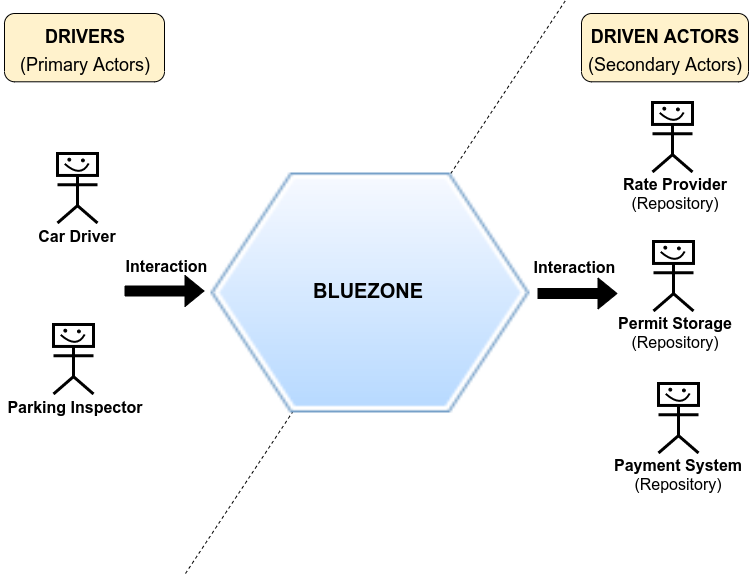
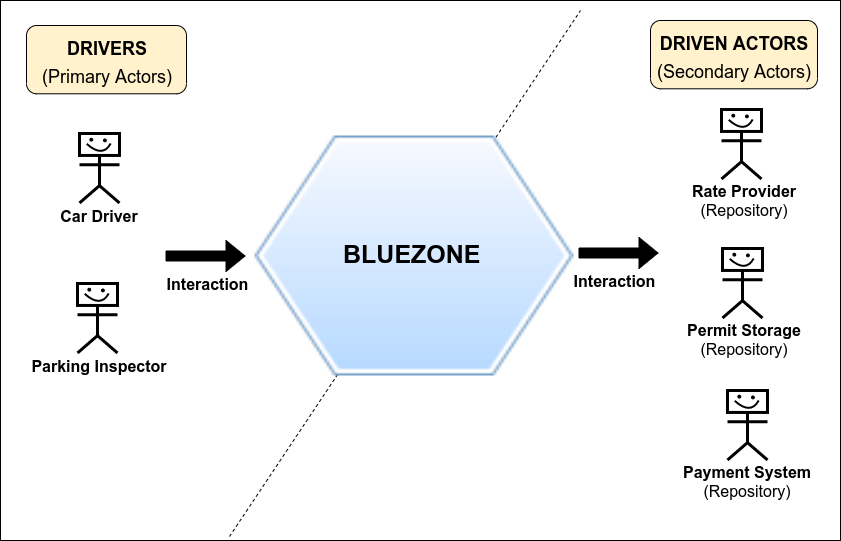
add figures

diff --git a/content/hexagonalarchitecture-ig/chapter1.md b/content/hexagonalarchitecture-ig/chapter1.md
@@ -92,11 +92,11 @@ We will not define driven ports in detail yet, since we will find out their oper
 Now let's see these design steps...
 
 <div id="tc3-1"></div>
-### 3.1.- IDENTIFY ACTORS
+#### 3.1.- IDENTIFY ACTORS
 
 1. Draw an hexagon. It represents the application, the business logic.
 
-2. Put driver actors outside the hexagon, on the left side. Drivers are those who needs the application for achieving their goals. They trigger the communication with the application. [As Alistair Cockburn says in his talk Alistair in the Hexagone, think of the application as a thing resting in a quiet state, doing nothing. When the driver needs the application to perform an action, the driver would kick it and wake it up saying "Hey you, do this"](https://youtu.be/th4AgBcrEHA?list=PLGl1Jc8ErU1w27y8-7Gdcloy1tHO7NriL&t=1409).
+2. Put driver actors outside the hexagon, on the left side. Drivers are those who needs the application for achieving their goals. They trigger the communication with the application. As Alistair Cockburn says in his talk [Alistair in the Hexagone, think of the application as a thing resting in a quiet state](https://youtu.be/th4AgBcrEHA?list=PLGl1Jc8ErU1w27y8-7Gdcloy1tHO7NriL&t=1409), doing nothing. When the driver needs the application to perform an action, the driver would kick it and wake it up saying "Hey you, do this".
 
 3. Put driven actors outside the hexagon, on the right side. Driven actors are those who are needed by the application for achieving application goals. The application triggers the communication with the driven actors.
 
@@ -111,16 +111,14 @@ In the example application, BlueZone, the real world things we can identify are:
 
 At this early stage of development we don't care if actors are humans, files, databases, remote systems, etc. We just abstract the actor as a thing outside the application, it doesn't matter the technology it uses.
 
-So we have the actors shown in Figure 1. Here I borrow a [picture for representing actors, drawn by Alistair Cockburn in his talk Alistair in the Hexagone, meaning that an actor can be a human being, a computer, or whatever... it doesn't matter](https://youtu.be/th4AgBcrEHA?list=PLGl1Jc8ErU1w27y8-7Gdcloy1tHO7NriL&t=1365).
+So we have the actors shown in Figure 1. Here I borrow a [picture for representing actors, drawn by Alistair Cockburn in his talk Alistair in the Hexagone](https://youtu.be/th4AgBcrEHA?list=PLGl1Jc8ErU1w27y8-7Gdcloy1tHO7NriL&t=1365), meaning that an actor can be a human being, a computer, or whatever... it doesn't matter.
 
-![Figure 1: Actors](/assets/images/hexagonalarchitecture-ig/figure1-1.png)
-
-![Figure 1: Actors](/assets/images/hexagonalarchitecture-ig/figure1-1-transp.png)
+![Figure 1: Hexagon and Actors](/assets/images/hexagonalarchitecture-ig/figure1-1.png)
 
 Figure 1: Hexagon and Actors
 
 <div id="tc3-2"></div>
-### 3.2.- IDENTIFY PORTS
+#### 3.2.- IDENTIFY PORTS
 
 Actors interacts with the hexagon through ports. A port groups the allowed interactions of the hexagon with a set of possible actors according to the purpose of the communication, using an declared program interface (API) which will be independent from the technologies any of the actors might use. ___An application port has a purpose, it is "for doing something", and we should name ports that way, even in source code___.
 
@@ -128,28 +126,30 @@ Actors interacts with the hexagon through ports. A port groups the allowed inter
 
 In the example application:
 
-  - Car drivers want the application for parking their cars. So there will be a driver port named ___"for parking cars"___.
+    - Car drivers want the application for parking their cars. So there will be a driver port named ___"for parking cars"___.
 
-  - Parking inspectors want the application for checking cars. So there will be a driver port named ___"for checking cars"___.
+    - Parking inspectors want the application for checking cars. So there will be a driver port named ___"for checking cars"___.
 
 * __Driven ports__: For each driven actor, ask to yourself: What purpose does the application want the driven actor for? The answer will be the name of the port. Do this considering the driven actors as abstract repositories/recipients, regardless of their techonology.
 
 In the example application:
 
-  - The application wants the "Rate Provider" for obtaining rates, in order to calculate prices of parking permits. So there will be a driven port named ___"for obtaining rates"___. The application will just say to the driven port: "Hey you! Gimme the rate of name ...", but it doesn't care if it comes from a file, or from another application, or from whatever device else.
+    - The application wants the "Rate Provider" for obtaining rates, in order to calculate prices of parking permits. So there will be a driven port named ___"for obtaining rates"___. The application will just say to the driven port: "Hey you! Gimme the rate of name ...", but it doesn't care if it comes from a file, or from another application, or from whatever device else.
 
-  - The application wants the "Permit Storage" for storing the parking permits that car drivers request, and for querying them when parking inspectors want to check a car. So there will be a driven port named ___"for storing permits"___.
+    - The application wants the "Permit Storage" for storing the parking permits that car drivers request, and for querying them when parking inspectors want to check a car. So there will be a driven port named ___"for storing permits"___.
 
-  - The application wants the "Payment System" for letting car drivers paying. So there will be a driven port named "___for paying___".
+    - The application wants the "Payment System" for letting car drivers paying. So there will be a driven port named "___for paying___".
 
 Maybe at this early stage of development, you still don’t know all driven actors needed by the application. But don’t worry about it, they will appear when you implement the business logic. You will realize that the application has to deal with some technologic device, or it has to use a functionality which is not under its responsability. In such a case you will have to abstract the purpose of the communication, and create a driven port for it, which should be named according to the "for doing something" pattern.
 
 Figure 2 shows the identified ports added to the drawing. I write the name of the ports inside the hexagon to remark that they are part of it, they belong to the hexagon.
 
+![Figure 2: Hexagon with Ports](/assets/images/hexagonalarchitecture-ig/figure1-2.png)
+
 Figure 2: Hexagon with Ports
 
 <div id="tc3-3"></div>
-### 3.2.- ADD ADAPTERS
+#### 3.3.- ADD ADAPTERS
 
 Do you remember when I said forget about technologies? Think of an actor as an abstract thing outside the hexagon? Well now it's time for technologies, forget about abstractions.
 
@@ -159,39 +159,43 @@ For every port, we will have __at least two adapters__:
 
 * What I call the _"Default adapter"_: It is the one that will be used when we want to test the hexagon in isolation.
 
-  - In the driver side, the default adapter for a port is an _automated test tool_ that will run test cases against the port.
+    - In the driver side, the default adapter for a port is a _testing automation tool_ that will run test cases against the port.
 
-  - In the driven side, the default adapter for a port is a _test double_. There are many kinds of test doubles: mocks, fakes, stubs, etc. A resource I recommend about this topic is ["XUnit Test Patterns" by Gerard Meszaros](http://xunitpatterns.com).
+    - In the driven side, the default adapter for a port is a _test double_. There are many kinds of test doubles: mocks, fakes, stubs, etc. A resource I recommend about this topic is ["XUnit Test Patterns" by Gerard Meszaros](http://xunitpatterns.com).
 
 * What I call the _"Real adapter"_: It is the one that will be used when running the application in production environment.
 
-In the example application we have the adapters you can see in Figure 4.
+In the example application we have the adapters you can see in Figure 3.
 
-Design alternatives for the driver side:
+Then, more adapters could be added if we want or if the requirements change. For example, imagine users need to access the appliation from a mobile app. We could add REST API adapters.
 
-Imagine that the requirements say that both driver actors (car drivers and parking inspector) use just one web UI to access the application. Here the trick is to consider those actors as roles that a person can play.
+___Design alternatives for the driver side:___
 
-Figure 3 shows the drawing of this design. We would just have one actor (the person) playing two roles (car driver and parking inspector). There would be two adapters, one for each role. The web UI would send the request to one of the adapters, depending on the role of the user who did the request. 
+I've chosen the design of Figure 4 for showing how to implement an application with multiple driver ports, adapters and actors, but of course there are other ways to design it. I mention here two of them if someone want to try:
 
-Figure 3: Driver side with one actor playing two roles
+1. Imagine that the requirements say that both driver actors (car drivers and parking inspector) use just one web UI to access the application. Here the trick is to consider those actors as roles that a person can play. We would just have one actor (the person) playing two roles (car driver and parking inspector). There would be two web UI adapters, one for each port. A middleware component would route the web UI request to one of the adapters, depending on the requested operation. In this case ports would have to check the role of the user who did the request.
 
-(3.4) The whole picture.
+2. Having just one port instead of two. The port would be kind of a "use case bus". The hexagon would have use case handlers. This would be analog to a command bus, but instead of commands you would have use cases with a request and a response. This almost deserves an article on its own. Maybe the next one after this series.
+
+<div id="tc3-4"></div>
+#### 3.4.- THE WHOLE PICTURE
 
 Putting it all together, we have the following design diagram that shows all the elements of the system: hexagon (with ports), actors and adapters. It will be a reference for next chapter, where we will see the project structure and dependencies between elements.
 
-Figure 4: Hexagon (with Ports), Adapters and Actors
+![Figure 3: Hexagon (with Ports), Adapters and Actors](/assets/images/hexagonalarchitecture-ig/figure1-3.png)
 
-(3.5) Driver ports.
+Figure 3: Hexagon (with Ports), Adapters and Actors
+
+<div id="tc3-5"></div>
+#### 3.5.- DRIVER PORTS
 
 Finally, to implement the business logic in the next chapters, we need to define now the API of the hexagon, i.e. the operations offered by driver ports to the outside world.
 
 A port groups a set of operations related to the purpose of the port. For every driver port, do the following:
 
-* Write down the sequence of interactions that take place when a driver actor uses the port. These interactions will help you to find out the operations that the port should offer.
-
-* Identify and write down the names of the operations you found.
-
-* For every operation, describe the input it receives, the output it returns, and what it does.
+1. Write down the sequence of interactions that take place when a driver actor uses the port. These interactions will help you to find out the operations that the port should offer.
+2. Identify and write down the names of the operations you found.
+3. For every operation, describe the input it receives, the output it returns, and what it does.
 
 Once you've done this, you will have defined the API of the hexagon.
 
@@ -199,9 +203,9 @@ Here I will put the API definition in Java, but you can do it in natural languag
 
 In the example application:
 
-"for parking cars" port.
+___"for parking cars" port:___
 
-* Interactions of the actor (A) with the port (P):
+1. Interactions of the actor (A) with the port (P):
 
 A: Requests a parking permit
 
@@ -211,37 +215,94 @@ A: Enters the car plate, the rate name, the ending datetime of the period, and t
 
 P: Issues the parking permit
 
-* Operations of the port:
+2. Operations of the port:
 
 getAllRates, issuePermit
 
-* Description of the operations:
+3. Description of the operations:
 
-JAVA API
+~~~
+public interface ForParkingCars {
 
-"for checking cars" port.
+	/**
+	 * @author jmgarrido
+	 * 
+	 * Returns all the available rates
+	 * 
+	 * @return a list of {@code RateInfo} objects
+	 */
+	public List<RateInfo> getAllRates();
 
-* Interactions of the actor (A) with the port (P):
+
+	/**
+	 * @author jmgarrido
+	 * 
+	 * Creates a permit for the car {} parked at an area with the rate {}.
+	 * The permit period starts at the current datetime, given by the clock {}, and ends at datetime {}.
+	 * The permit price is charged to the payment card {}.
+	 * Returns a ticket with the permit information.
+	 * 
+	 * @param clock				
+	 * 					Clock to get current datetime from.
+	 * @param carPlate
+	 * 					Car that we want to get the permit for.
+	 * @param rateName
+	 * 					Rate of the regulated area where we want to park the car.
+	 * @param endingDateTime
+	 * 					A datetime in the future, that will be the expiration date of the permit.
+	 * @param paymentCardInfo
+	 * 					Card to charge the permit price to.
+	 * @return an object of type {@code PermitTicket}
+	 * 
+	 */
+	public PermitTicket issuePermit ( Clock clock, String carPlate, String rateName, LocalDateTime endingDateTime, PaymentCardInfo paymentCardInfo );
+}
+~~~
+
+___"for checking cars" port:___
+
+1. Interactions of the actor (A) with the port (P):
 
 A: Enters the car plate and the rate name
 
 P: Checks whether the car is parked correctly
 
-* Operations of the port:
+2. Operations of the port:
 
 isParkedCorrectly
 
-* Description of the operations:
+3. Description of the operations:
 
-JAVA API
+~~~
+public interface ForCheckingCars {
+	/**
+	 * @author jmgarrido
+	 * 
+	 * Checks whether the car {} has an active permit for being parked
+	 * at the current datetime in a regulated area with rate {}
+	 * 
+	 * @param clock				
+	 * 					Clock to get current datetime from.
+	 * @param carPlate
+	 * 					Car that we want to check.
+	 * @param rateName
+	 * 					Rate of the regulated area where the car is parked.
+	 * @return a boolean value
+	 * 					true if such a permit exists, false otherwise
+	 * 
+	 */
+	public boolean isParkedCorrectly ( Clock clock, String carPlate, String rateName );	
+}
+~~~
 
-I want to remark here that the clock as a parameter is useful for mocking the current datetime when testing. It has the drawback that you should pass it to every method that needs it. Another alternative for avoiding this would be to create a driven port for the clock.
+I want to remark here that the clock as a parameter is useful for mocking the current datetime when testing. But if you have many methods that need the clock, it has the drawback that you should pass it to all of them. To avoid this, it would be better to create a driven port for the clock.
 
-(4) ANALOGY WITH USE CASES.
+<div id="tc4"></div>
+### 4.- ANALOGY WITH USE CASES
 
 It is worth to mention here the paralelism between hexagonal architecture and use cases world.
 
-Reading the article "Structuring use cases with goals" by Alistair Cockburn (https://web.archive.org/web/20170620145208/http://alistair.cockburn.us/Structuring+use+cases+with+goals), I realized that hexagonal architecture is tightly related to use cases. I describe here some analogies I've found:
+Reading the article ["Structuring use cases with goals" by Alistair Cockburn](https://web.archive.org/web/20170620145208/http://alistair.cockburn.us/Structuring+use+cases+with+goals), I realized that hexagonal architecture is tightly related to use cases. I describe here some analogies I've found:
 
 * In use cases there are different levels of abstraction for goals: summary goals, user goals (sea level) and subfunctions. At high level (summary goals) you have multiple primary actors. This is for helping you to find out better the functionality that the system might offer to the users. Then at lower levels (user goals and subfunctions) you have just one actor.
 
@@ -251,7 +312,9 @@ A topic related to this is "How primary actors can be important and unimportant 
 
 * In use cases we have this figure, that shows how actors communicate with a "goal - interaction - responsability" chain:
 
-Figure 5: Actor-to-actor communication model
+![Figure 4: Actor-to-actor communication model](/assets/images/hexagonalarchitecture-ig/figure1-4.png)
+
+Figure 4: Actor-to-actor communication model
 
 Hexagonal architecture fit this model: Driver actors are primary actors, the hexagon (the application) is the "system under design", and driven actors are secondary actors. Driver ports group use cases.
 
@@ -265,26 +328,21 @@ In the right side of the hexagon... To perform its responsabilities, the hexagon
 
 The hexagon would be like any other actor. It has goals and to achieve them it might need to interact with another actor.
 
-(5) LINKS.
+<div id="tc5"></div>
+### 5.- LINKS
 
 * Ports and Adapters Pattern (aka Hexagonal Architecture), by Alistair Cockburn:
 
-At web archive (captured on 2018/08/22):
-
-https://web.archive.org/web/20180822100852/http://alistair.cockburn.us/Hexagonal+architecture
-
-At his new site:
-
-https://alistair.cockburn.us/hexagonal-architecture
+[https://web.archive.org/web/20180822100852/http://alistair.cockburn.us/Hexagonal+architecture](https://web.archive.org/web/20180822100852/http://alistair.cockburn.us/Hexagonal+architecture)
 
 * My conceptual article about Ports and Adapters Pattern (aka Hexagonal Architecture):
 
-https://softwarecampament.wordpress.com/portsadapters
+[https://jmgarridopaz.github.io/content/hexagonalarchitecture.html](https://jmgarridopaz.github.io/content/hexagonalarchitecture.html)
 
 * "XUnit Test Patterns", by Gerard Meszaros:
 
-http://xunitpatterns.com
+[http://xunitpatterns.com](http://xunitpatterns.com)
 
 * "Structuring use cases with goals" article, by Alistair Cockburn:
 
-https://web.archive.org/web/20170620145208/http://alistair.cockburn.us/Structuring+use+cases+with+goals
+[https://web.archive.org/web/20170620145208/http://alistair.cockburn.us/Structuring+use+cases+with+goals](https://web.archive.org/web/20170620145208/http://alistair.cockburn.us/Structuring+use+cases+with+goals)
